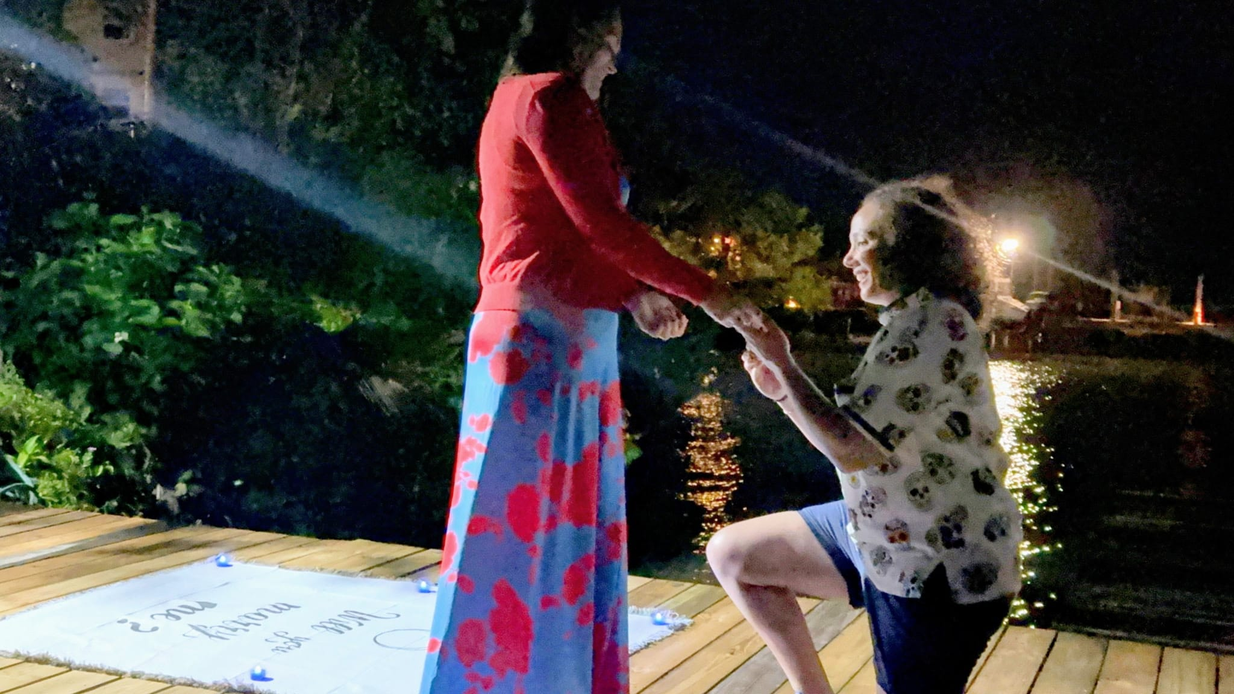
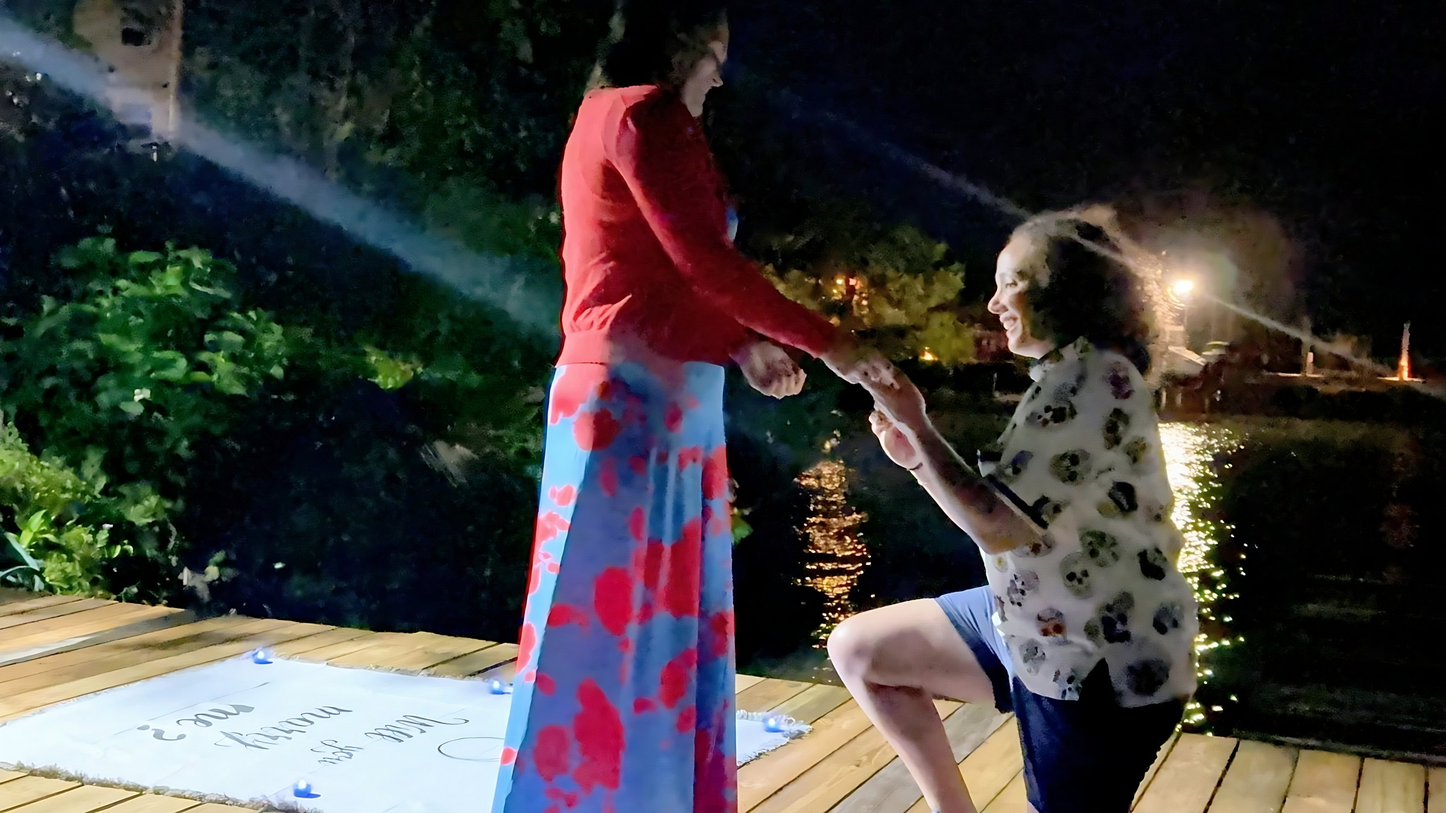
More photos and colors

Changed region(s): [[0.5625, 0.6875, 0.5938, 0.8125]]

diff --git a/src/data.js b/src/data.js
@@ -22,15 +22,21 @@ export const wedding = {
 
 export const storyPhotos = [
   { src: "/photos/photo-12.jpg", wide: true },
-  { src: "/photos/photo-01.jpg" },
-  { src: "/photos/photo-09.jpg" },
-  { src: "/photos/photo-02.jpg" },
-  { src: "/photos/photo-04.jpg", wide: true },
   { src: "/photos/photo-11.jpg" },
+  { src: "/photos/photo-16.jpg" },
+  { src: "/photos/photo-14.jpg" },
+  { src: "/photos/photo-04.jpg", wide: true },
+  { src: "/photos/photo-09.jpg" },
+  { src: "/photos/photo-13.jpg" },
+  { src: "/photos/photo-01.jpg" },
+  { src: "/photos/photo-15.jpg" },
+  { src: "/photos/photo-17.jpg", wide: true },
+  { src: "/photos/photo-08.jpg" },
+  { src: "/photos/photo-02.jpg" },
+  { src: "/photos/photo-18.jpg" },
   { src: "/photos/photo-06.jpg" },
   { src: "/photos/photo-03.jpg" },
   { src: "/photos/photo-10.jpg" },
-  { src: "/photos/photo-08.jpg" },
   { src: "/photos/photo-05.jpg" },
   { src: "/photos/photo-07.jpg" },
 ];
@@ -38,8 +44,8 @@ export const storyPhotos = [
 export const featuredPhotos = {
   hero: "/photos/photo-12.jpg",
   storyPreview: "/photos/photo-04.jpg",
-  dressCode: "/photos/photo-08.jpg",
-  location: "/photos/photo-01.jpg",
+  dressCode: "/photos/photo-16.jpg",
+  location: "/photos/photo-14.jpg",
   closing: "/photos/photo-11.jpg",
 };
 

diff --git a/src/pages/DressCode.jsx b/src/pages/DressCode.jsx
@@ -3,7 +3,7 @@ import PageHero from "../components/PageHero";
 import { featuredPhotos } from "../data";
 import useLang from "../i18n/useLang";
 
-const palette = ["#F7A8D0", "#F4D8D0", "#E9DFD0", "#C2C0C2", "#A9B8AE"];
+const palette = ["#FFFFFF", "#FA8ECA", "#FBDCE9", "#E3E1DF", "#B6B4B2"];
 const tipIcons = [Sun, Shirt, Sparkles, Check];
 
 export default function DressCode() {
@@ -53,7 +53,6 @@ export default function DressCode() {
               </div>
             ))}
           </div>
-          <p className="gentle-note">{t.dressCode.gentleNote}</p>
         </div>
       </section>
     </>

diff --git a/src/i18n/es.js b/src/i18n/es.js
@@ -93,7 +93,6 @@ export default {
     paletteEyebrow: "Inspiración de color",
     paletteTitle: "Nuestra paleta costera",
     paletteText: "Estos colores son una inspiración, no un requisito.",
-    gentleNote: "Les pedimos reservar el blanco y el marfil para las novias.",
   },
 
   gifts: {

diff --git a/src/styles.css b/src/styles.css
@@ -723,7 +723,9 @@ h2 {
   aspect-ratio: 1;
   border: 5px solid var(--cream);
   border-radius: 50%;
-  box-shadow: 0 8px 25px rgba(73, 57, 65, 0.11);
+  box-shadow:
+    0 8px 25px rgba(73, 57, 65, 0.11),
+    inset 0 0 0 1px rgba(63, 53, 58, 0.12);
   place-items: end center;
 }
 

diff --git a/src/i18n/en.js b/src/i18n/en.js
@@ -93,7 +93,6 @@ export default {
     paletteEyebrow: "Color inspiration",
     paletteTitle: "Our coastal palette",
     paletteText: "These colors are inspiration, not a strict requirement.",
-    gentleNote: "Kindly reserve white and ivory for the brides.",
   },
 
   gifts: {
